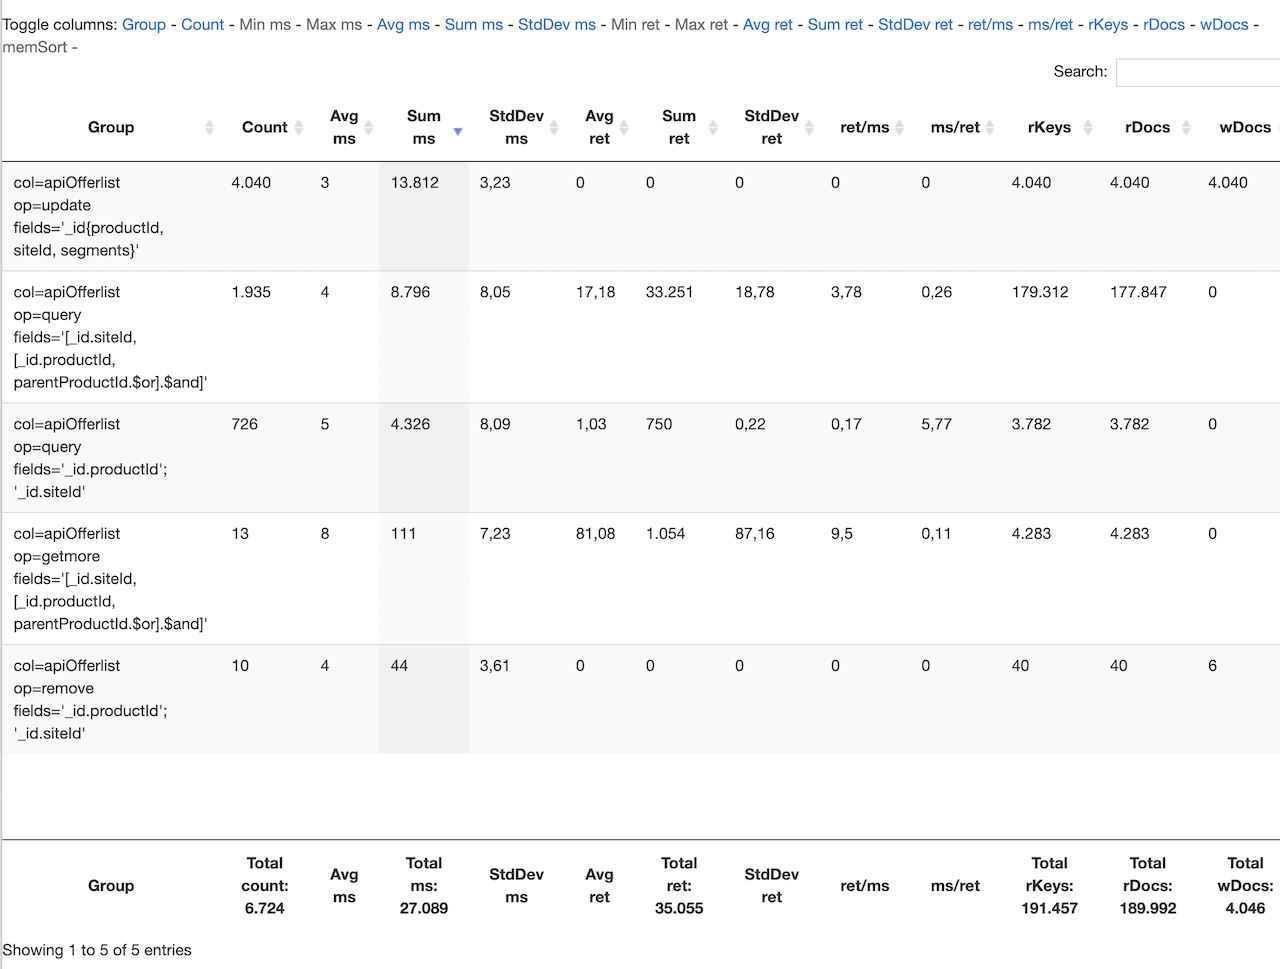
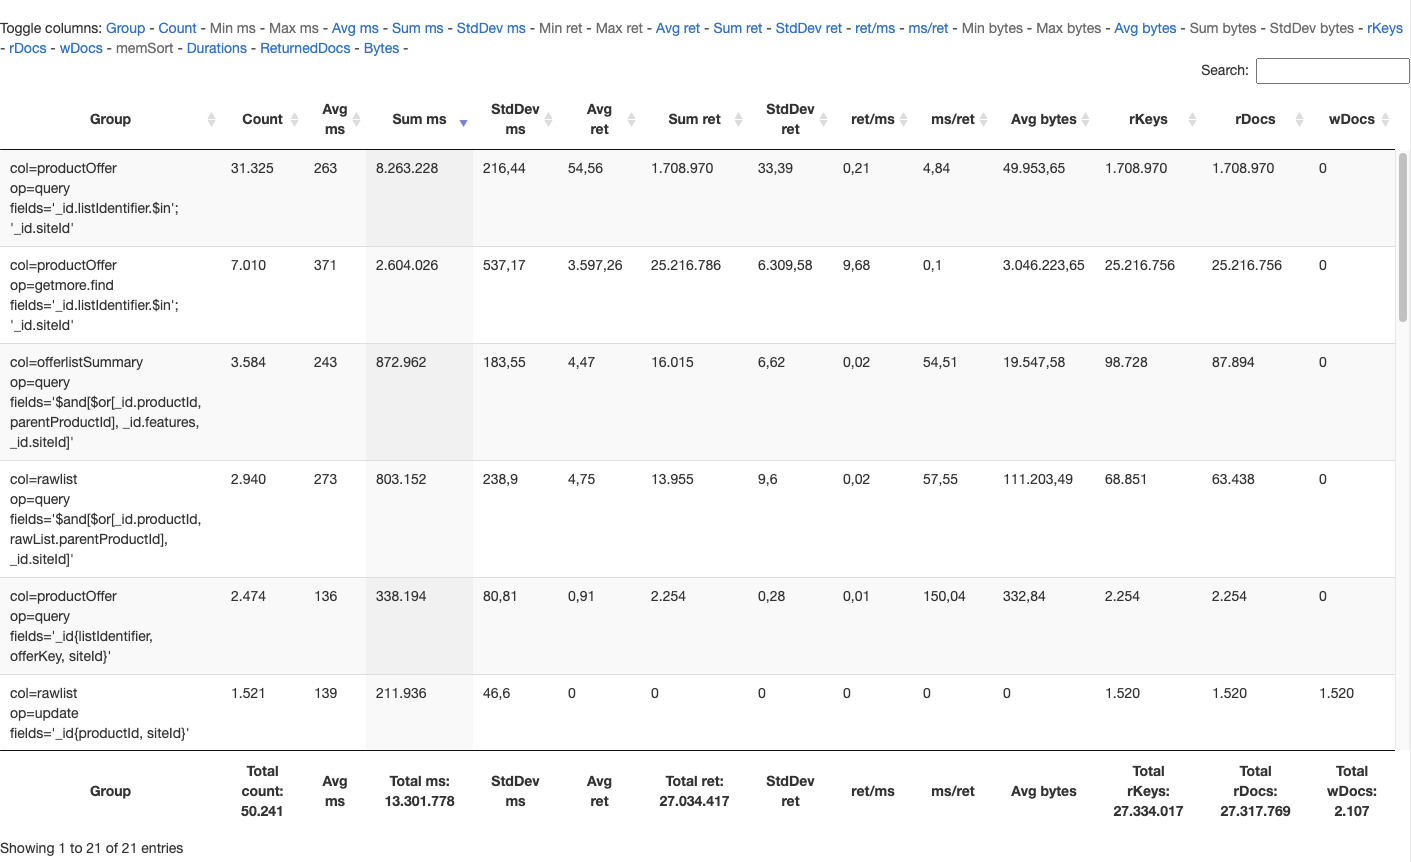
documentation

diff --git a/README.md b/README.md
@@ -16,18 +16,17 @@ The more "Group by" checkboxes are checked, the more details constitute slow ope
 
 ### Example
 
-For example, the following screenshot shows that only one database has been **filtered**, defined in the search form by its label, server addresses, replica set and database name for a specific time period.
-Since the slow operations are defined in the search form to be **grouped by** their collections, operations, queried and sorted fields, the legend below on the right shows these 4 details grouped together for the time period which is being hovered over by the mouse, here at 00:03 o'clock. As the the **resolution** is set to `Minute`, all slow operations occurred during within the minute hovered over by the mouse, here from 00:03 until 00:04 o'clock, are shown on the right-hand side in the legend.
+For example, the following screenshot shows that only one database has been **filtered**, defined in the search form by its `Label` and `Database` name for a time span of 1 hour.
+Since the slow operations are defined in the search form to be **grouped by** their collections, operations, queried and sorted fields, the legend below on the right shows these 4 details grouped together for the time period which is being hovered over by the mouse, here at 15:37 o'clock. As the the **resolution** is set to `Minute`, all slow operations occurred during within the minute hovered over by the mouse, here from 15:37 until 15:38 o'clock, are shown on the right-hand side in the legend.
 
-In this example, from 23:58 to 00:06 o'clock occurred 5 different slow operation types which are printed in different colors in both the diagram and the legend. As the legend is sorted by y-axis, thus execution time in milliseconds, the **slowest** operation type is shown first. Instead, you may select "sort legend by:" `count-value` to see in the legend the **most profiled** slow operation types first (which correspond to the biggest circles).
+The different slow operation types are printed in different colors in both the diagram and the legend. As the legend is sorted by y-axis, thus execution time in milliseconds, the **slowest** operation type is shown first. Instead, you may select "sort legend by:" `count-value` to see in the legend the **most profiled** slow operation types first (which correspond to the biggest circles).
 
-In this screenshot, the slowest operation type at 00:03 o'clock happened on collection `apiOfferlist` by executing a `query` on both fields `_id.productId` and `_id.siteId`. This slow operation type occurred 112 times at this precise minute, its minimum duration was 2 ms, maximum 47 ms, average 10 ms and the sum of all these queries was 1.115 ms.
+Since the profiler was set to a threshold of 100 ms, only operations slower than 100 ms are profiled. In this screenshot, we zoomed-in to see only slow operations that were faster than 360 ms. The legend shows all slow operations that occurred at 15:37 o'clock since that's the position of the mouse pointer. The first one happened on collection `producOffer` by executing a `getmore.find` operation on both fields `_id.listIdentifier` with an `$in` operator and `_id.siteId` with an equality condition. This slow operation type occurred 86 times at this precise minute, its minimum duration was 103 ms (of all profiled operations slower than 100 ms), its maximum 1514 ms, average 354 ms and the accumulated execution time (`sum`) of all these queries during this minute was 30.465 ms.
 
-Below you see how many documents (min, max, avg, sum, stdDev) were returned by this operation. And last but not least you have some metrics about how many index keys were read (`rKeys`), how many documents were read (`rDocs`) and written (`wDocs`) and also that no in-memory sort (`memSort`) had to be done (no sort at all in this case since no `sort` field was defined). 
+Below you see `Returned` which informs how many documents (`min`, `max`, `avg`, `sum`, `stdDev`) were returned by this operation.
+ Furthermore `Bytes` gives information about the size in bytes of the response(s). And last but not least, `R/W` shows metrics about how many index keys were read (`rKeys`), how many documents were read (`rDocs`) and written (`wDocs`) and also that no in-memory sort (`memSort`) had to be done (no sort at all in this case since no `sort` field was defined). 
 
-The second slowest operation type in this screenshot is a `getmore` operation. Since v2.9.0 the application shows also the originating query of the `getmore`operation. In this example, the query logically combined both fields `_id.productId`and `parentProductId` by OR and its result was logically combined by AND with the field `_id.siteId`. 
-
-The metrics about execution times, returned documents, read and written documents and/or index keys are to read in the same manner as above.
+The second slowest operation type in this screenshot at 15:37 o'clock is a `query` operation. Regarding its queried fields, it's the originating command of the previously described `getmore.find` operation. It occurred more often than the originating command (318 versus 86), so its circle in the diagramm is also a bit larger. 
 
 ## Example screenshot of the analysis page
 
@@ -35,18 +34,18 @@ The metrics about execution times, returned documents, read and written document
 ![Screenshot](img/slow_operations_gui_diagram_low.png "Screenshot of the analysis page")
 
 
-### How to interpret slow operation types
+### How to read queried, projected and sorted fields of slow operation types
 
-The fields that make up a slow operation, such as query, projection and sort, are retrieved and stored without their exact values in the collector database. They are shown on the analysys page when analyzing slow operations as follows:
-  + queried fields are suffixed by their operator if no equality condition was used 
-     + e.g. the find expression `{field:{$gt:3}}` is shown as `field.$gt` 
-  + if the operator applies to multiple operands, operands are enclosed in square brackets 
-     + e.g. the find expression `$and:[$or:[a:1, b:2], c:3]` is show as `$and[$or[a, b], c]` 
-  + nested fields are shown in dot notation 
-     + e.g. the find expression `$and:[{"a.x":1},{"a.y":2}]` is shown as `$and[a.x, a.y]`
-  + nested documents are surrounded by curly braces
-     + e.g. the find expression `p:{x:1,y:2}` is shown as `p{x,y}`
-  + stages of an aggregation pipeline are shown separated by semicolon
+The fields that make up a slow operation, such as query, projection and sort, are retrieved and stored without their exact values in the collector database. They are shown on the analysis page when analyzing slow operations as follows:
+  + **queried fields** are suffixed by their operator if no equality condition was used 
+     + e.g. the expression `{field:{$gt:3}}` is shown as `field.$gt` 
+  + if the operator applies to **multiple operands**, operands are enclosed in square brackets 
+     + e.g. the expression `$and:[$or:[a:1, b:2], c:3]` is show as `$and[$or[a, b], c]` 
+  + **nested fields** are shown in dot notation 
+     + e.g. the expression `$and:[{"a.x":1},{"a.y":2}]` is shown as `$and[a.x, a.y]`
+  + **nested documents** are surrounded by curly braces
+     + e.g. the expression `p:{x:1,y:2}` is shown as `p{x,y}`
+  + **stages** of an aggregation pipeline are shown separated by semicolon
      + e.g. the pipeline `[{$match:{a:1, b:2}}, {$project:{_id: 1}}]` is shown as `'$match{a, b}'; '$project._id'`   
 
 If you want to see an original document (from the `system.profile` collection) which corresponds to the profiled slow operation type, you need to select in the `Group By` section the following checkboxes: 
@@ -62,7 +61,7 @@ If you want to see an original document (from the `system.profile` collection) w
 
 ### Summarized table
 
-Since v1.0.3 the user analysis page, besides the diagram, has also a table of all selected slow operation types. The
+Since v1.0.3, the user analysis page, besides the diagram, has also a table of all selected slow operation types. The
 table is filterable. Columns are sortable and selectable to be hidden or shown. Wherever it makes sense, the sum of the
 values of a column is displayed at the bottom of the column.
 
@@ -70,18 +69,20 @@ For example, to see the most expensive slow operations first, just sort descendi
 
 Here is a reduced screenshot of the table without any filter on rows because the `Search` textbox is empty. However not all columns are shown. You can toggle a column to be shown or hidden by clicking its name in the table header. The table here is sorted by column `Sum ms`, so we see in the first row the most **expensive** slow operation type: either there were many of this type or they were generally slow. 
 
-Let's interpret the first row to get you familiar with. In the column `Group` you see the attributes you've grouped by (selected in the search form above). Here again, the slow ops occurred in the collection (`col`) "apiOfferlist". The slow operations (`op`) were "updates" and the field (`fields`) to select the documents to be modified was an `_id` field having a sub-document querying the 3 fields `productId`, `siteId` and `segments`. Sub-documents being queried on more than one field are enclosed by curly brackets `{}`. However, if only one sub-document field was queried, dot-notation is preferably used.
+Let's interpret the first row to get you familiar with. In the column `Group` you see the attributes you've grouped by (selected in the search form above). Here again, the slow ops occurred in the collection (`col`) "productOffer". The slow-op operation (`op`) was a "query". To match the documents, the field (`fields`) shows that 2 fields were used: `_id.listIdentifier` with an `$in` operator and the field `_id.siteId` with an equality condition.
 
 Since v2.13.0, documents of profiled slow operations are stored in the collector database in order to show them as an example for any given slow operation type which may help to understand better the output of more complex queries. 
-So, the column `Group` in the data table adds for each slow operation type, an [example](#) link to see an original document from the `system.profile` collection as an example of a profiled slow operation. The example matches the namespace (label, database, collection) and the query shape of the given slow operation type as long as the checkboxes `Label`, `Database`, `Collection` `Operation`, `Queried fields`, `Sorted fields` and `Projected fields` have been selected in the `Group by` section of the search form.
-Since v2.14.0, slow operation examples will automatically be removed when they become older than the oldest stored slow operation e.g. if the slow ops collection is a capped collection, when the oldest entries get removed then all older example documents will be removed as well. A new example entry will be added automatically when the corresponding query is collected again. However, if such a query is not collected again, other still stored slow ops might have lost their example document if they have the same fingerprint as the removed example document.
+So, the column `Group` in the data table adds for each slow operation type, an [example](#) link to see an original document from the `system.profile` collection as an example of a profiled slow operation. The example matches the namespace (label, database, collection) and the query shape of the given slow operation type as long as the checkboxes `Label`, `Database`, `Collection` `Operation`, `Queried fields`, `Sorted fields` and `Projected fields` have been selected in the `Group by` section of the search form, which is not the case in the screenshot above.
 
 The rest of the columns in the data table should be self-explanatory. High values in the column `ms/ret` (and vice versa low values in column `ret/ms`) may indicate a performance problem for operations which return documents, because these columns show the time in ms needed to return 1 document respectively the number of documents returned within 1 ms.
+
+Since v2.14.0, slow operation examples will automatically be removed when they become older than the oldest stored slow operation e.g. if the slow ops collection is a capped collection, when the oldest entries get removed then all older example documents will be removed as well. A new example entry will be added automatically when the corresponding query is collected again. However, if such a query is not collected again, other still stored slow ops might have lost their example document if they have the same fingerprint as the removed example document.
+
 
 ![Screenshot](img/slow_operations_gui_table_low.png "Screenshot of the table")
 
 <a name="sumtable_v2.9.0"></a>
-Since version 2.9.0 the analysis page shows additional metrics about:
+Since version 2.9.0, the analysis page shows additional metrics about:
 * number of read keys from the index (`rKeys`)
 * number of read documents (`rDocs`)
 * number of written documents (`wDocs`)
@@ -101,7 +102,7 @@ The value of `memSort`is `true` if no index could be used to sort the documents.
 
 ## Application status page
 
-Since v1.0.3 there is also a page to show the application status. Besides showing the status of the collector, means where and how many slow operations have been collected (read and written) since application restart, it shows also every registered database in a table. Since profiling works per database, each database to be profiled is in one row.
+Since v1.0.3, there is also a page to show the application status. Besides showing the status of the collector, means where and how many slow operations have been collected (read and written) since application restart, it shows also every registered database in a table. Since profiling works per database, each database to be profiled is in one row.
 
 The table is filterable. Columns are sortable and selectable to be hidden or shown. Wherever it makes sense, the sum of
 the values of a column is displayed at the bottom of the column. The table is by default sorted by the columns `DBS Label`,
@@ -118,7 +119,7 @@ At its right side, the table has a bunch of time slot columns (10 sec, 1 min, 10
 
 Since v2.0.2, an **Actions panel** is shown always on top in order to choose actions that can be executed against the databases of selected row(s). Both `refresh` and `analyse` actions were implemented already before v2.0.0. `refresh` gets and shows the latest data of the selected database(s). `analyse` opens the above mentionned analysis page to show the slow operation types of the last 24 hours of the selected node(s) respectively database(s). Both `collecting start/stop` and `set slowMs` were also already implemented before but since v2.0.0 they are only shown to authorized users. "Authorized users" are users who used the url parameter `adminToken` set to the right value (see below under "configuration" for more details).
 
-Since v2.0.0. you may execute **commands** against the selected database system(s). Since v2.0.3 you can choose whether the command has to run against the corresponding database system (i.e. mongoS-router) or against the individually selected nodes (i.e. mongoD). The difference is that the command will run either against the entry point of the database system (i.e. router or primary) or against all selected nodes wich may be secondaries as well. Current implemented commands are:
+Since v2.0.0, you may execute **commands** against the selected database system(s). Since v2.0.3, you can choose whether the command has to run against the corresponding database system (i.e. mongoS-router) or against the individually selected nodes (i.e. mongoD). The difference is that the command will run either against the entry point of the database system (i.e. router or primary) or against all selected nodes wich may be secondaries as well. Current implemented commands are:
 
 + show database statistics
 + show collection statistics
